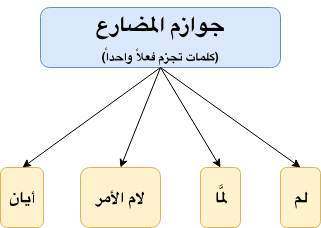
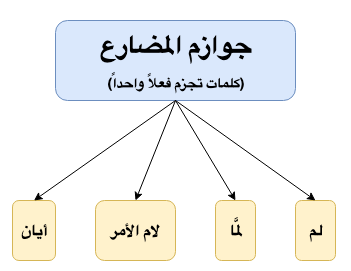
Improving cover image of midhari, mabni and balagha

diff --git a/posts/2019-02-11-mabni/2019-02-11-mabni.md b/posts/2019-02-11-mabni/2019-02-11-mabni.md
@@ -13,7 +13,7 @@ label:
   - Nahw
 slug: mabni
 published: true
-image: ./four-mabni.png
+image: ./4-mabni.png
 ---
 
 **Mabni**{: .firstword} Or **مبني**{: .firstword} are الكلمات in Arabic grammar whose endings are fixed.
@@ -30,7 +30,7 @@ The ending of Mabni can be,
 - Kasra (الكسر)
   - e.g. أمسِ (meaning اليوم السابق) Or الأمسِ (meaning الماضي/past)
 
-![4 Mabni](./four-mabni.png){:title="4 Mabni"}
+![4 Mabni](./4-mabni.png){:title="4 Mabni"}
 
 <br/>
 

diff --git a/posts/2019-02-07-mudhari/2019-02-07-mudhari.md b/posts/2019-02-07-mudhari/2019-02-07-mudhari.md
@@ -13,7 +13,7 @@ label:
   - Nahw
 slug: fil-mudhari
 published: true
-image: ./10-nawasib-mudhari.png
+image: ./4-jawazim-mudhari.png
 ---
 
 **Fi'l Mudhari**{: .firstword} Or **فعل مضارع**{: .firstword .arabic} is used to express an action in the present or an action that will happen in the future.

diff --git a/posts/drafts/2019-02-21-ilm-ul-bayan/2019-02-21-ilm-ul-bayan.md b/posts/drafts/2019-02-21-ilm-ul-bayan/2019-02-21-ilm-ul-bayan.md
@@ -11,7 +11,7 @@ tags:
 label:
   - Nahw
 slug: ilm-ul-bayan
-published: true
+published: false
 image: ./placeholder.png
 ---
 
